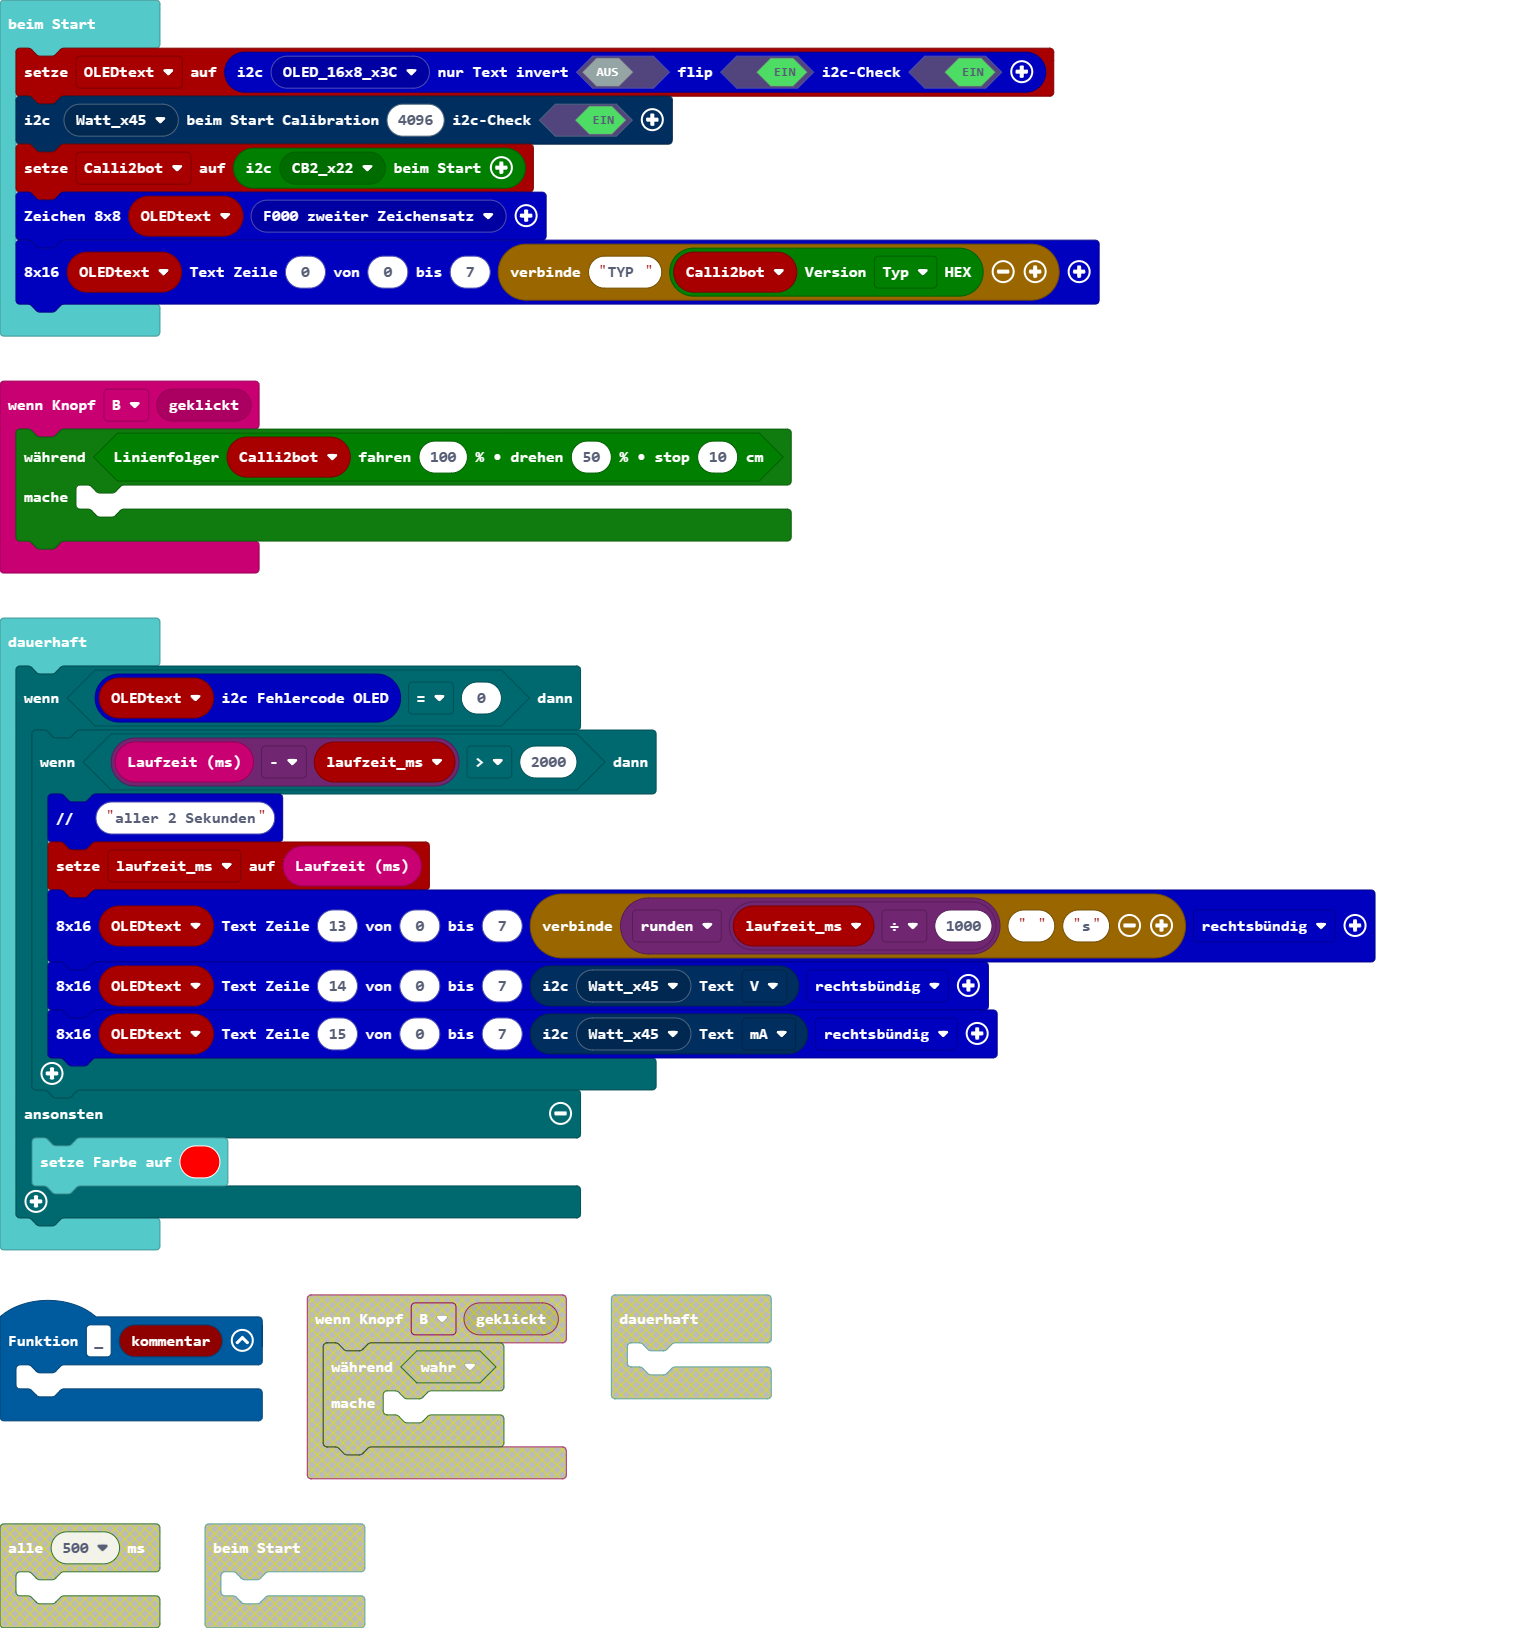
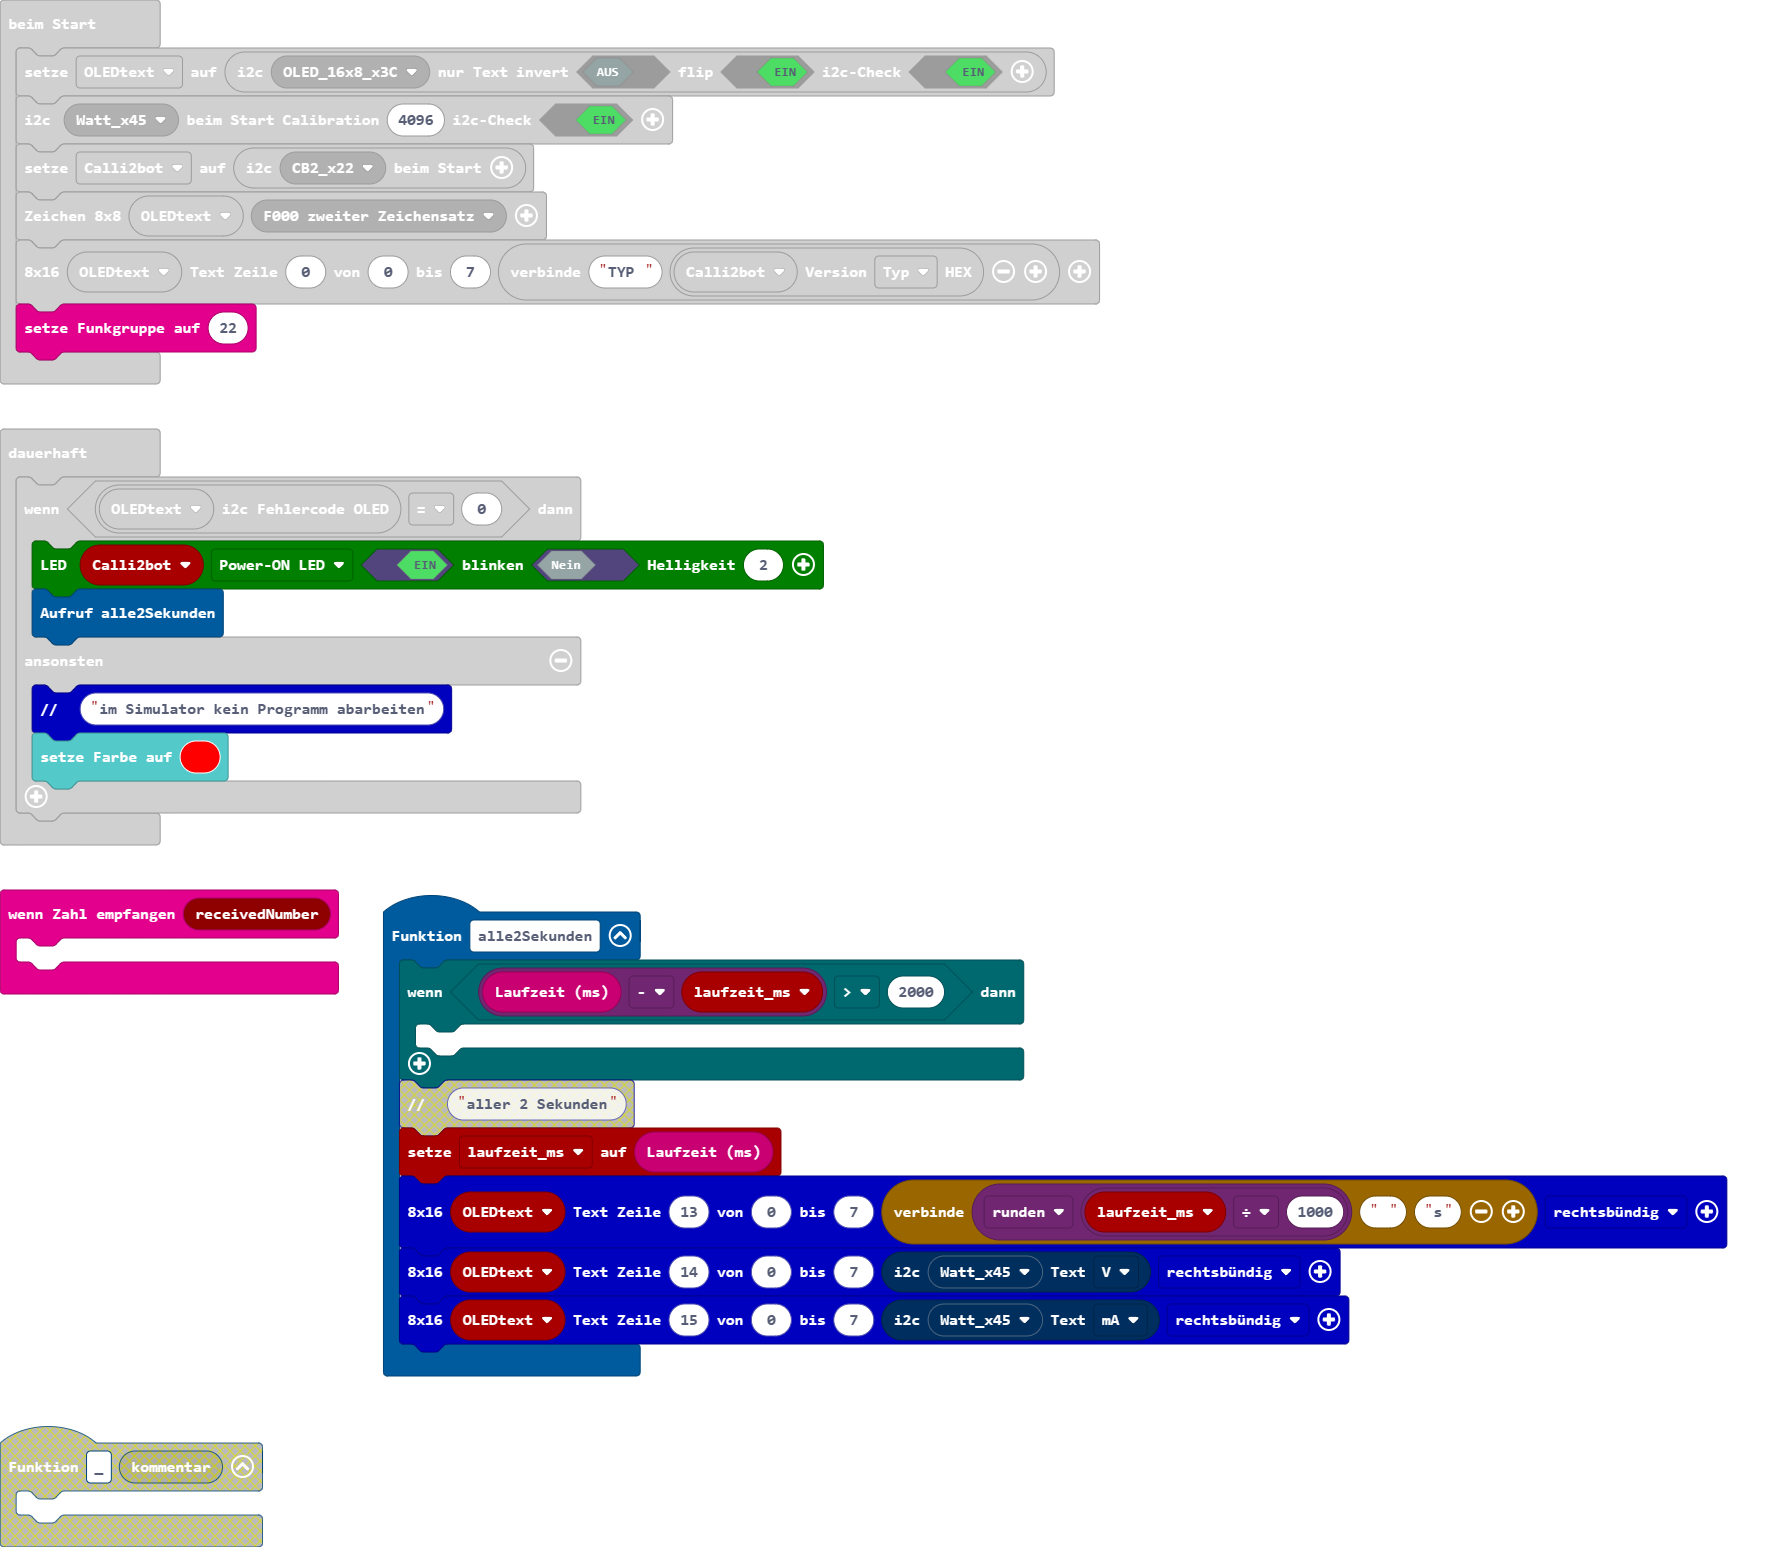
Aktualisiere pxt.json, main.blocks, main.ts

diff --git a/main.ts b/main.ts
@@ -1,3 +1,6 @@
+radio.onReceivedNumber(function (receivedNumber) {
+	
+})
 input.onButtonEvent(Button.A, input.buttonEventClick(), function () {
 	
 })
@@ -6,26 +9,29 @@ input.onButtonEvent(Button.B, input.buttonEventClick(), function () {
     	
     }
 })
-function _ (kommentar: string) {
-	
+function alle2Sekunden () {
+    if (input.runningTime() - laufzeit_ms > 2000) {
+        laufzeit_ms = input.runningTime()
+        OLEDtext.writeText8x16(13, 0, 7, "" + Math.round(laufzeit_ms / 1000) + " " + "s", oled.eAlign.rechts)
+        OLEDtext.writeText8x16(14, 0, 7, wattmeter.statuszeile(wattmeter.wattmeter_eADDR(wattmeter.eADDR.Watt_x45), wattmeter.eStatuszeile.v), oled.eAlign.rechts)
+        OLEDtext.writeText8x16(15, 0, 7, wattmeter.statuszeile(wattmeter.wattmeter_eADDR(wattmeter.eADDR.Watt_x45), wattmeter.eStatuszeile.mA), oled.eAlign.rechts)
+    }
 }
 let laufzeit_ms = 0
 let Calli2bot: calli2bot.Calli2bot = null
-let OLEDtext = oled.new_oledclass(oled.oled_eADDR_OLED(oled.eADDR_OLED.OLED_16x8_x3C), false, true)
+let OLEDtext: oled.oledclass = null
+OLEDtext = oled.new_oledclass(oled.oled_eADDR_OLED(oled.eADDR_OLED.OLED_16x8_x3C), false, true)
 wattmeter.reset(wattmeter.wattmeter_eADDR(wattmeter.eADDR.Watt_x45))
 Calli2bot = calli2bot.beimStart(calli2bot.calli2bot_eADDR(calli2bot.eADDR.CB2_x22))
 OLEDtext.set_eeprom_8x8(oled.oled_eEEPROM_Startadresse(oled.eEEPROM_Startadresse.F000))
 OLEDtext.writeText8x16(0, 0, 7, "TYP " + Calli2bot.i2cReadFW_VERSION(calli2bot.eVersion.Typ))
+radio.setGroup(22)
 basic.forever(function () {
     if (OLEDtext.geti2cError_OLED() == 0) {
-        if (input.runningTime() - laufzeit_ms > 2000) {
-            oled.comment("aller 2 Sekunden")
-            laufzeit_ms = input.runningTime()
-            OLEDtext.writeText8x16(13, 0, 7, "" + Math.round(laufzeit_ms / 1000) + " " + "s", oled.eAlign.rechts)
-            OLEDtext.writeText8x16(14, 0, 7, wattmeter.statuszeile(wattmeter.wattmeter_eADDR(wattmeter.eADDR.Watt_x45), wattmeter.eStatuszeile.v), oled.eAlign.rechts)
-            OLEDtext.writeText8x16(15, 0, 7, wattmeter.statuszeile(wattmeter.wattmeter_eADDR(wattmeter.eADDR.Watt_x45), wattmeter.eStatuszeile.mA), oled.eAlign.rechts)
-        }
+        Calli2bot.setLed1(calli2bot.eLed.poweron, true, false, 2)
+        alle2Sekunden()
     } else {
+        oled.comment("im Simulator kein Programm abarbeiten")
         basic.setLedColor(0xff0000)
     }
 })
